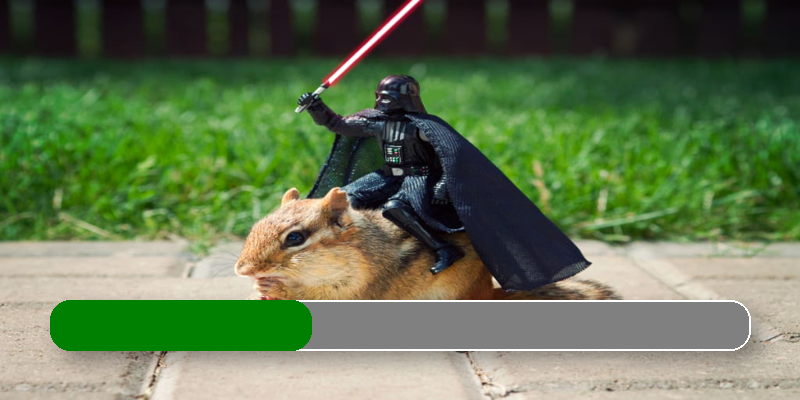
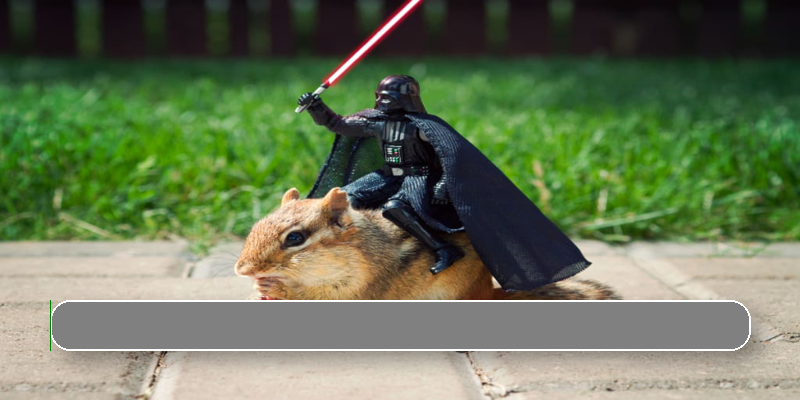
Modularization and reset updates

Changed region(s): [[0.0625, 0.75, 0.4062, 0.9]]

diff --git a/Resolute/cogs/admin.py b/Resolute/cogs/admin.py
@@ -1,4 +1,5 @@
 import asyncio
+import datetime
 import logging
 from os import listdir
 
@@ -8,12 +9,12 @@ from discord.ext import commands, tasks
 from Resolute.bot import G0T0Bot
 from Resolute.constants import ADMIN_GUILDS
 from Resolute.helpers import get_guild, get_player, is_admin, is_owner
+from Resolute.helpers.dashboards import update_financial_dashboards
+from Resolute.helpers.financial import get_financial_data, update_financial_data
 from Resolute.models.views.admin import AdminMenuUI
 from Resolute.models.views.automation_request import AutomationRequestView
 
 log = logging.getLogger(__name__)
-
-# TODO: Reset financials monthly
 
 def setup(bot: commands.Bot):
     bot.add_cog(Admin(bot))
@@ -31,6 +32,9 @@ class Admin(commands.Cog):
     async def on_db_connected(self):
         if not self.reload_category_task.is_running():
             asyncio.ensure_future(self.reload_category_task.start())
+
+        if not self.check_financials.is_running():
+            asyncio.ensure_future(self.check_financials.start())
 
     @commands.slash_command(
         name="automation_request",
@@ -101,7 +105,10 @@ class Admin(commands.Cog):
             await ctx.respond(f'Cog {cog} reloaded')
 
     @commands.command(name="dev")
-    async def dev(self, ctx: ApplicationContext):        
+    async def dev(self, ctx: ApplicationContext):
+        current_time = datetime.datetime.now(datetime.timezone.utc)       
+
+
         await ctx.send("here")
 
     # --------------------------- #
@@ -118,3 +125,23 @@ class Admin(commands.Cog):
     @tasks.loop(minutes=30)
     async def reload_category_task(self):
         await self.bot.compendium.reload_categories(self.bot)
+
+    @tasks.loop(hours=24)
+    async def check_financials(self):
+        fin = await get_financial_data(self.bot)
+        current_time = datetime.datetime.now(datetime.timezone.utc)
+
+        if fin.last_reset is None or fin.last_reset.month != current_time.month:
+            fin.last_reset = current_time
+            goal = fin.monthly_goal
+
+            goal -= fin.adjusted_total
+
+            if goal > 0:
+                fin.reserve = max(fin.reserve - goal, 0)
+            fin.monthly_total = 0
+            fin.month_count += 1
+            await update_financial_data(self.bot, fin)
+            await update_financial_dashboards(self.bot)
+            log.info("Finanical month reset")
+

diff --git a/Resolute/cogs/events.py b/Resolute/cogs/events.py
@@ -11,9 +11,7 @@ from Resolute.constants import ERROR_CHANNEL
 from Resolute.helpers import (get_guild, get_player, get_player_adventures,
                               get_player_arenas, process_message,
                               upsert_application)
-from Resolute.helpers.dashboards import get_financial_dashboards, update_dashboard
-from Resolute.helpers.financial import get_financial_data, update_financial_data
-from Resolute.helpers.store import get_store_items
+from Resolute.helpers.events import handle_entitlements
 from Resolute.models.embeds import ErrorEmbed
 from Resolute.models.embeds.events import MemberLeaveEmbed
 from Resolute.models.objects.exceptions import G0T0CommandError, G0T0Error
@@ -178,39 +176,11 @@ class Events(commands.Cog):
 
     @commands.Cog.listener()
     async def on_entitlement_create(self, entitlement: discord.Entitlement):
-        store_items = await get_store_items(self.bot)        
-        fin = await get_financial_data(self.bot)
-
-        if store := next((s for s in store_items if s.sku == entitlement.sku_id), None):
-            if fin.monthly_total + store.user_cost > fin.monthly_goal:
-                fin.reserve += min(store.user_cost, fin.monthly_goal - (fin.monthly_total + store.user_cost))
-
-            fin.monthly_total += store.user_cost
-        await update_financial_data(self.bot, fin)
-
-
-        dashboards = await get_financial_dashboards(self.bot)
-
-        for d in dashboards:
-            await update_dashboard(self.bot, d)
+       await handle_entitlements(self.bot, entitlement)
 
     @commands.Cog.listener()
     async def on_entitlement_update(self, entitlement: discord.Entitlement):
-        store_items = await get_store_items(self.bot)        
-        fin = await get_financial_data(self.bot)
-
-        if store := next((s for s in store_items if s.sku == entitlement.sku_id), None):
-            if fin.monthly_total + store.user_cost > fin.monthly_goal:
-                fin.reserve += min(store.user_cost, fin.monthly_goal - (fin.monthly_total + store.user_cost))
-
-            fin.monthly_total += store.user_cost
-        await update_financial_data(self.bot, fin)
-
-
-        dashboards = await get_financial_dashboards(self.bot)
-
-        for d in dashboards:
-            await update_dashboard(self.bot, d)
+        await handle_entitlements(self.bot, entitlement)
         
 
         

diff --git a/Resolute/models/objects/financial.py b/Resolute/models/objects/financial.py
@@ -1,6 +1,7 @@
+import datetime
 import sqlalchemy as sa
 from marshmallow import Schema, fields, post_load
-from sqlalchemy import BigInteger, Column, Numeric, Integer
+from sqlalchemy import Column, Numeric, Integer, TIMESTAMP, null
 from sqlalchemy.sql.selectable import TableClause
 
 from Resolute.models import metadata
@@ -12,6 +13,12 @@ class Financial(object):
         self.monthly_goal = kwargs.get('monthly_goal', 0)
         self.monthly_total = kwargs.get('monthly_total', 0)
         self.reserve = kwargs.get('reserve', 0)
+        self.last_reset: datetime.datetime = kwargs.get('last_reset')
+
+    @property
+    def adjusted_total(self):
+        # Adjusted for what Discord takes
+        return self.monthly_total*.9
 
 financial_table = sa.Table(
     "financial",
@@ -19,7 +26,8 @@ financial_table = sa.Table(
     Column("month_count", Integer, nullable=False),
     Column("monthly_goal", Numeric, nullable=False),
     Column("monthly_total", Numeric, nullable=False),
-    Column("reserve", Numeric, nullable=False)
+    Column("reserve", Numeric, nullable=False),
+    Column("last_reset", TIMESTAMP(timezone=datetime.timezone.utc), nullable=True, default=null())
 )
 
 class FinancialSchema(Schema):
@@ -27,9 +35,13 @@ class FinancialSchema(Schema):
     monthly_goal = fields.Number(required=True)
     monthly_total = fields.Number(required=True)
     reserve = fields.Number(required=True)
+    last_reset = fields.Method(None, "load_timestamp", allow_none=True)
 
     def __init__(self, **kwargs):
         super().__init__(**kwargs)
+
+    def load_timestamp(self, value):  # Marshmallow doesn't like loading DateTime for some reason. This is a workaround
+        return datetime.datetime(value.year, value.month, value.day, value.hour, value.minute, value.second, tzinfo=datetime.timezone.utc)
     
     @post_load
     def make_finance(self, data, **kwargs):
@@ -42,7 +54,8 @@ def update_financial_query(fin: Financial):
     update_dict = {
         "month_count": fin.month_count,
         "monthly_total": fin.monthly_total,
-        "reserve": fin.reserve
+        "reserve": fin.reserve,
+        "last_reset": fin.last_reset
     }
 
     return financial_table.update().values(**update_dict)

diff --git a/Resolute/helpers/dashboards.py b/Resolute/helpers/dashboards.py
@@ -130,7 +130,13 @@ async def get_level_distribution_data(bot: G0T0Bot) -> []:
         async for row in conn.execute(get_level_distribution()):
             result = dict(row)
             data.append([result['level'], result['#']])
-    return data    
+    return data
+
+async def update_financial_dashboards(bot: G0T0Bot):
+    dashboards = await get_financial_dashboards(bot)
+
+    for d in dashboards:
+        await update_dashboard(bot, d)
 
 async def update_dashboard(bot: G0T0Bot, dashboard: RefDashboard):
     original_message = await get_pinned_post(bot, dashboard)
@@ -219,7 +225,7 @@ async def update_dashboard(bot: G0T0Bot, dashboard: RefDashboard):
         shadow_offset = 10
 
         # Calculate progress
-        progress = min(fin.monthly_total / fin.monthly_goal, 1)  # Cap progress at 100% for the main bar
+        progress = min(fin.adjusted_total / fin.monthly_goal, 1)  # Cap progress at 100% for the main bar
 
         shadow = Image.new("RGBA", background.size, (0, 0, 0, 0))
         shadow_draw = ImageDraw.Draw(shadow)
@@ -256,7 +262,7 @@ async def update_dashboard(bot: G0T0Bot, dashboard: RefDashboard):
         background.save("progress.png")
 
         embed = discord.Embed(title="G0-T0 Financial Progress",
-                              description=f"Current Monthly Progress: ${fin.monthly_total:.2f}\n"
+                              description=f"Current Monthly Progress: ${fin.adjusted_total:.2f}\n"
                                             f"Monthly Goal: ${fin.monthly_goal:.2f}\n"
                                             f"Reserve: ${fin.reserve:.2f}",
                               color=discord.Color.gold(),

diff --git a/Resolute/helpers/events.py b/Resolute/helpers/events.py
@@ -1,0 +1,18 @@
+import discord
+from Resolute.bot import G0T0Bot
+from Resolute.helpers.dashboards import update_financial_dashboards
+from Resolute.helpers.financial import get_financial_data, update_financial_data
+from Resolute.helpers.store import get_store_items
+
+
+async def handle_entitlements(bot: G0T0Bot, entitlement: discord.Entitlement):
+    store_items = await get_store_items(bot)        
+    fin = await get_financial_data(bot)
+
+    if store := next((s for s in store_items if s.sku == entitlement.sku_id), None):
+        fin.monthly_total += store.user_cost
+        if fin.adjusted_total > fin.monthly_goal:
+            fin.reserve += max(0, min(store.user_cost, fin.adjusted_total - fin.monthly_goal))
+
+    await update_financial_data(bot, fin)
+    await update_financial_dashboards(bot)

diff --git a/Resolute/helpers/financial.py b/Resolute/helpers/financial.py
@@ -7,7 +7,6 @@ async def get_financial_data(bot: G0T0Bot) -> Financial:
     async with bot.db.acquire() as conn:
         results = await conn.execute(get_financial_query())
         row = await results.first()
-
     
     fin = FinancialSchema().load(row)
 
